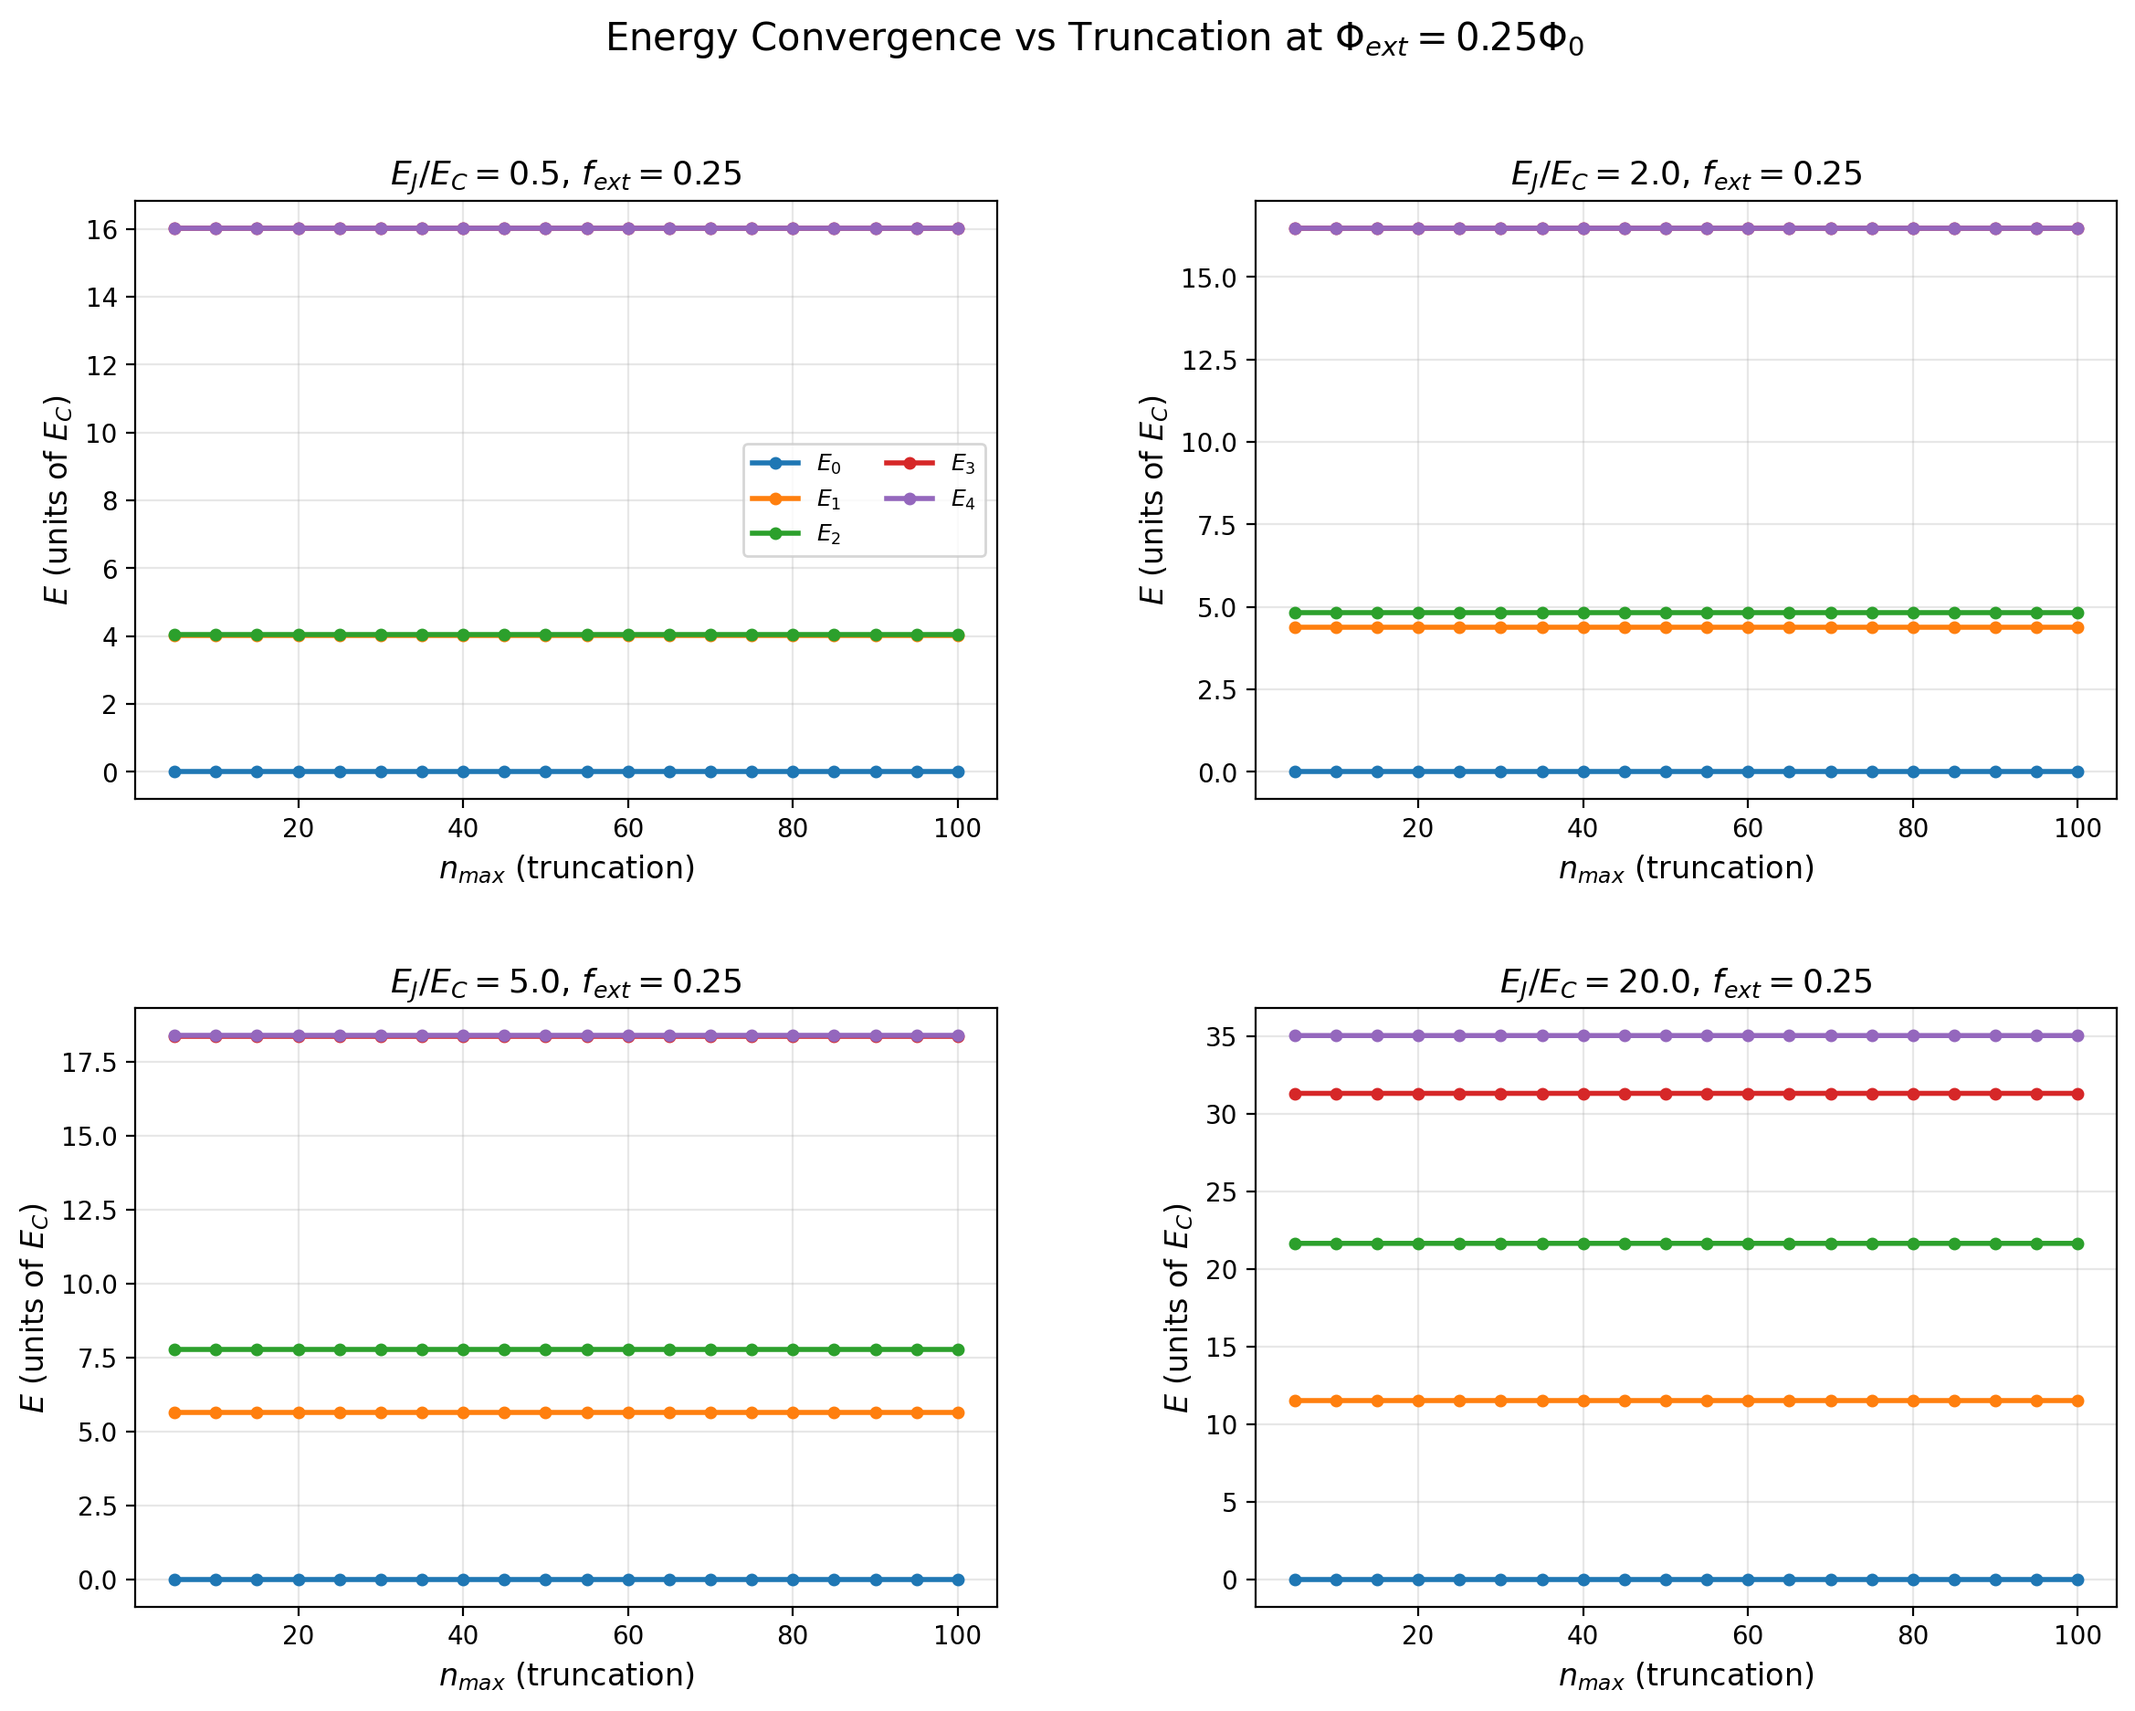
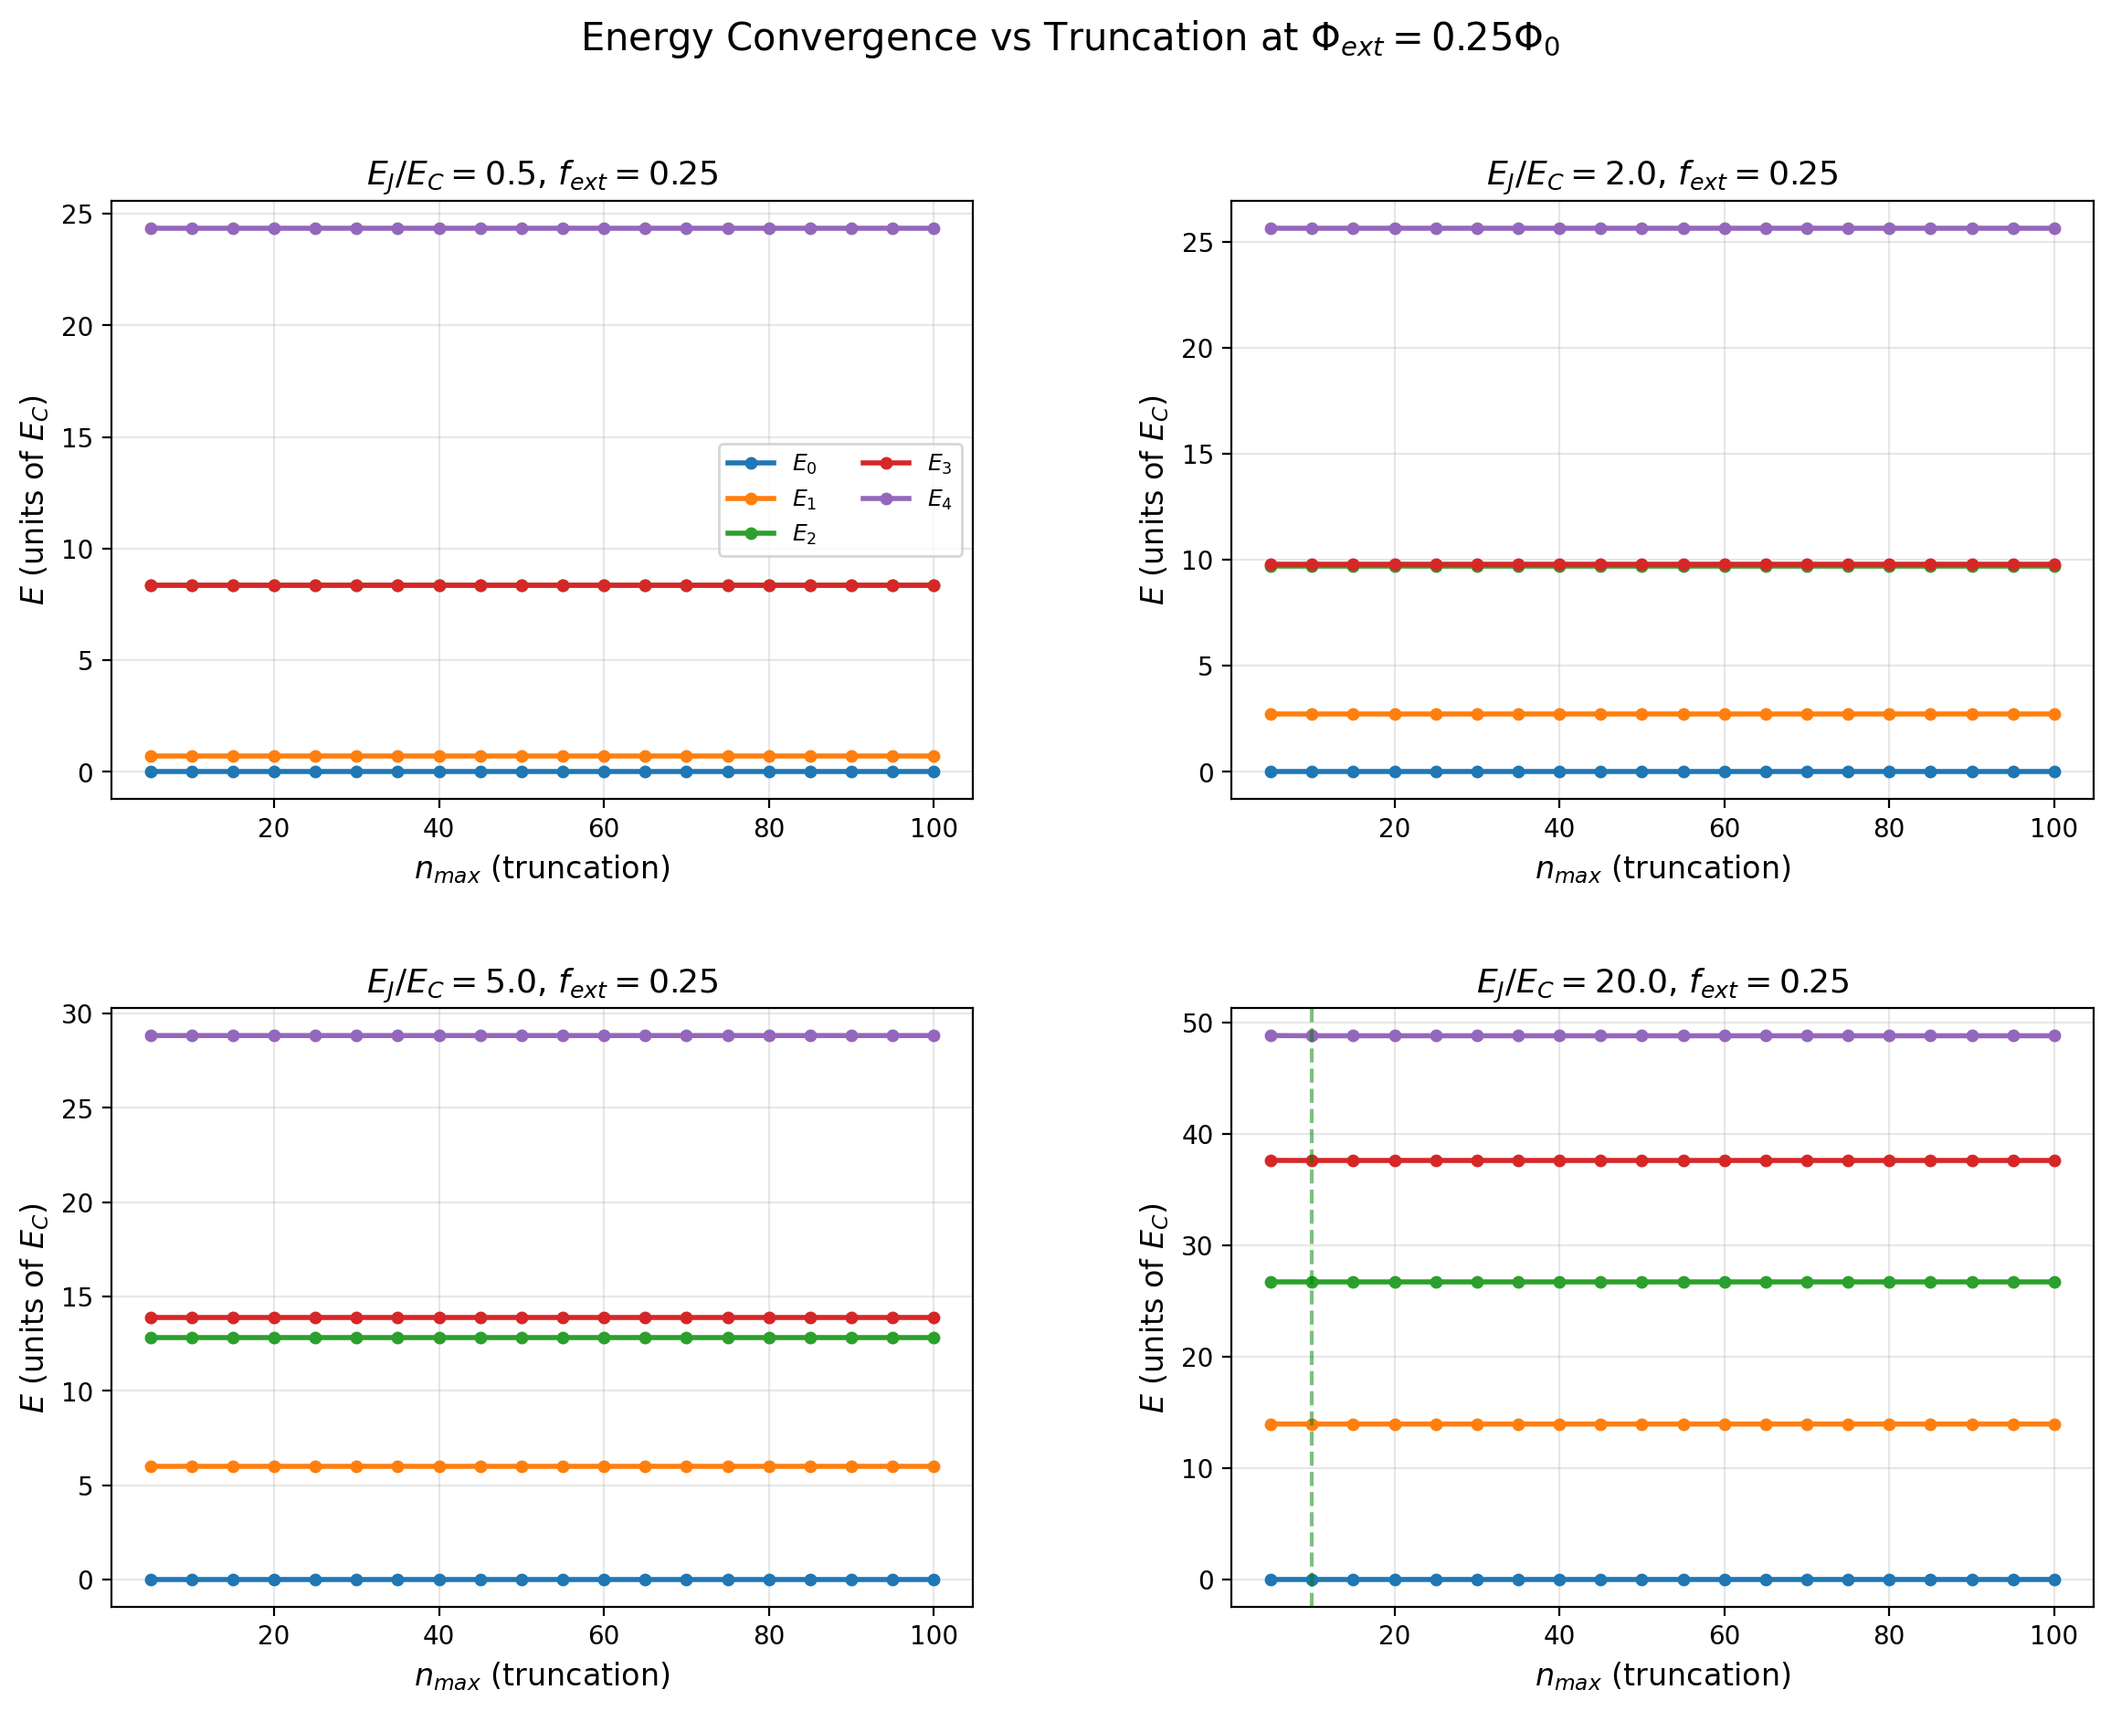
Rework SQUID with gate voltage and fix flux-dependent Hamiltonian
Major changes:
- Added voltage source V_g and gate capacitor C_g to SQUID circuit diagram
- Implemented gate charge n_g = 0.5 in SQUID Hamiltonian
- Fixed critical bug: added flux-dependent effective Josephson energy E_J_eff(φ) = 2*E_J*|cos(φ_ext/2)|
- Updated all spectrum calculations to use n_g = 0.5 for main analysis
- Mathieu comparison now uses n_g = 0 for valid comparison (Mathieu functions only valid at n_g = 0)
- Regenerated all SQUID analysis plots with corrected physics

Physical corrections:
- SQUID now properly exhibits flux modulation of energy spectrum
- Ground state energy varies with external flux as expected
- At φ_ext = 0: maximum E_J_eff (constructive interference)
- At φ_ext = π: minimum E_J_eff (destructive interference)

diff --git a/SQUID.py b/SQUID.py
@@ -38,18 +38,18 @@ except ImportError:
     print("Warning: scipy.special.mathieu functions not available")
 
 
-def build_hamiltonian_phase_basis(phi_ext, EJ_over_EC, n_max=50):
+def build_hamiltonian_phase_basis(phi_ext, EJ_over_EC, n_max=50, n_g=0.5):
     """
-    Build SQUID Hamiltonian in phase momentum basis |n⟩ with truncation.
+    Build SQUID Hamiltonian in phase momentum basis |n⟩ with truncation and gate charge.
 
     In the phase representation, we use momentum eigenstates where:
-        H = 4*E_C*n^2 - E_eff*cos(φ_ext - φ)
+        H = 4*E_C*(n - n_g)^2 - E_eff*cos(φ_ext - φ)
 
     Matrix elements in phase momentum basis |n⟩:
-        ⟨n|H|m⟩ = 4*E_C*n^2 δ_nm - (E_eff/2)[e^(i*φ_ext)δ_{n,m-1} + e^(-i*φ_ext)δ_{n,m+1}]
+        ⟨n|H|m⟩ = 4*E_C*(n - n_g)^2 δ_nm - (E_eff/2)[e^(i*φ_ext)δ_{n,m-1} + e^(-i*φ_ext)δ_{n,m+1}]
 
     This gives a tridiagonal Hermitian matrix:
-        - Diagonal: 4*E_C*n^2 (kinetic energy in phase space)
+        - Diagonal: 4*E_C*(n - n_g)^2 (charging energy with gate charge offset)
         - Off-diagonal: -(E_J/2)*e^(±iφ_ext) (Josephson potential with flux modulation)
 
     The eigenstates are related to Mathieu functions with periodic boundary conditions.
@@ -62,6 +62,8 @@ def build_hamiltonian_phase_basis(phi_ext, EJ_over_EC, n_max=50):
         Ratio E_J/E_C (E_eff = E_J for symmetric SQUID)
     n_max : int
         Truncation: phase momentum from -n_max to n_max
+    n_g : float
+        Gate charge (in units of 2e), default 0.5 for charge degeneracy point
 
     Returns
     -------
@@ -74,21 +76,26 @@ def build_hamiltonian_phase_basis(phi_ext, EJ_over_EC, n_max=50):
     # Basis states: |n⟩ with n ∈ [-n_max, ..., 0, ..., n_max]
     n_values = np.arange(-n_max, n_max + 1)
 
-    for i, n in enumerate(n_values):
-        # Diagonal: kinetic energy 4*E_C*n^2
-        H[i, i] = 4.0 * n**2
+    # For a DC SQUID with two junctions, the effective Josephson energy is flux-dependent:
+    # E_J_eff(φ_ext) = 2*E_J*|cos(φ_ext/2)|
+    # where EJ_over_EC here represents E_J/E_C per junction
+    EJ_eff = 2.0 * EJ_over_EC * np.abs(np.cos(phi_ext / 2.0))
 
-        # Off-diagonal: Josephson coupling -E_J*cos(φ_ext - φ)
-        # In momentum basis: -E_J/2 * [e^(i*φ_ext)|n-1⟩ + e^(-i*φ_ext)|n+1⟩]
+    for i, n in enumerate(n_values):
+        # Diagonal: charging energy 4*E_C*(n - n_g)^2
+        H[i, i] = 4.0 * (n - n_g)**2
+
+        # Off-diagonal: Josephson coupling with flux-modulated amplitude
+        # -E_J_eff*cos(φ) → -E_J_eff/2 * [|n-1⟩ + |n+1⟩] in momentum basis
         if i > 0:  # n-1 exists
-            H[i, i-1] = -EJ_over_EC / 2.0 * np.exp(1j * phi_ext)
+            H[i, i-1] = -EJ_eff / 2.0
         if i < dim - 1:  # n+1 exists
-            H[i, i+1] = -EJ_over_EC / 2.0 * np.exp(-1j * phi_ext)
+            H[i, i+1] = -EJ_eff / 2.0
 
     return H
 
 
-def compute_spectrum(phi_ext_array, EJ_over_EC, n_levels=5, n_max=50):
+def compute_spectrum(phi_ext_array, EJ_over_EC, n_levels=5, n_max=50, n_g=0.5):
     """
     Compute energy spectrum as a function of external flux using numerical diagonalization.
 
@@ -102,6 +109,8 @@ def compute_spectrum(phi_ext_array, EJ_over_EC, n_levels=5, n_max=50):
         Number of energy levels to compute
     n_max : int
         Phase momentum truncation (n ∈ [-n_max, n_max])
+    n_g : float
+        Gate charge offset in units of 2e (default: 0.5)
 
     Returns
     -------
@@ -114,7 +123,7 @@ def compute_spectrum(phi_ext_array, EJ_over_EC, n_levels=5, n_max=50):
     energies = np.zeros((len(phi_ext_array), n_levels_actual))
 
     for i, phi_ext in enumerate(phi_ext_array):
-        H = build_hamiltonian_phase_basis(phi_ext, EJ_over_EC, n_max)
+        H = build_hamiltonian_phase_basis(phi_ext, EJ_over_EC, n_max, n_g)
         evals = np.linalg.eigvalsh(H)
         energies[i, :] = evals[:n_levels_actual].real
 
@@ -263,7 +272,7 @@ def analyze_squid(results_dir='Results_SQUID'):
         ax = fig_spectrum.add_subplot(gs[idx])
 
         print(f"  Computing spectrum for E_J/E_C = {EJ_EC}...")
-        energies = compute_spectrum(phi_ext_array, EJ_EC, n_levels, n_max_default)
+        energies = compute_spectrum(phi_ext_array, EJ_EC, n_levels, n_max_default, n_g=0.5)
 
         # Plot first n_levels energy bands
         for level in range(min(n_levels, energies.shape[1])):
@@ -311,7 +320,7 @@ def analyze_squid(results_dir='Results_SQUID'):
     for EJ_EC in [0.5, 5.0, 20.0]:
         fig_ind, ax_ind = plt.subplots(figsize=(10, 7))
 
-        energies = compute_spectrum(phi_ext_array, EJ_EC, n_levels, n_max_default)
+        energies = compute_spectrum(phi_ext_array, EJ_EC, n_levels, n_max_default, n_g=0.5)
 
         for level in range(min(n_levels, energies.shape[1])):
             ax_ind.plot(f_ext_array, energies[:, level],
@@ -457,7 +466,7 @@ def analyze_squid(results_dir='Results_SQUID'):
     for EJ_EC in EJ_EC_transitions:
         fig_trans, ax_trans = plt.subplots(figsize=(10, 7))
 
-        energies = compute_spectrum(phi_ext_array, EJ_EC, 5, n_max_default)
+        energies = compute_spectrum(phi_ext_array, EJ_EC, 5, n_max_default, n_g=0.5)
 
         # Plot E_01, E_12, E_23
         transitions = [
@@ -492,8 +501,11 @@ def analyze_squid(results_dir='Results_SQUID'):
     # ========================================================================
     # 7. Comparison: Numerical vs Mathieu Functions
     # ========================================================================
+    # NOTE: Mathieu functions are only valid for n_g = 0 (or integer n_g)
+    # For this comparison, we use n_g = 0 for both methods
     if MATHIEU_AVAILABLE:
         print("\nComparing numerical diagonalization vs Mathieu function methods...")
+        print("  (Using n_g = 0 for fair comparison)")
 
         EJ_EC_comparison = [0.5, 2.0, 5.0, 20.0]
 
@@ -505,8 +517,8 @@ def analyze_squid(results_dir='Results_SQUID'):
 
             print(f"  Comparing methods for E_J/E_C = {EJ_EC}...")
 
-            # Compute with both methods
-            energies_numerical = compute_spectrum(phi_ext_array, EJ_EC, 5, n_max_default)
+            # Compute with both methods (using n_g = 0 for valid comparison)
+            energies_numerical = compute_spectrum(phi_ext_array, EJ_EC, 5, n_max_default, n_g=0.0)
             energies_mathieu = compute_spectrum_mathieu(phi_ext_array, EJ_EC, 5)
 
             if energies_mathieu is not None:
@@ -557,7 +569,7 @@ def analyze_squid(results_dir='Results_SQUID'):
 
         fig_side, (ax1, ax2) = plt.subplots(1, 2, figsize=(16, 6))
 
-        energies_numerical = compute_spectrum(phi_ext_array, EJ_EC_demo, 5, n_max_default)
+        energies_numerical = compute_spectrum(phi_ext_array, EJ_EC_demo, 5, n_max_default, n_g=0.0)
         energies_mathieu = compute_spectrum_mathieu(phi_ext_array, EJ_EC_demo, 5)
 
         # Left: Numerical

diff --git a/circuit_diagram_squid.py b/circuit_diagram_squid.py
@@ -39,8 +39,13 @@ def draw_squid_circuit(results_dir='Results_SQUID'):
             with schemdraw.Drawing(show=False) as d:
                 d.config(fontsize=12)
 
-                # Top node
-                d += elm.Line().right().length(0)
+                # Voltage source Vg and gate capacitor Cg at the top
+                d += elm.Ground()
+                d += elm.Line().up().length(1)
+                d += elm.SourceV().up().label('$V_g$')
+                d += elm.Capacitor().right().label('$C_g$')
+
+                # Top node (island)
                 d += (top := elm.Dot())
 
                 # Left branch: J1 (with C1 in parallel)
@@ -60,7 +65,7 @@ def draw_squid_circuit(results_dir='Results_SQUID'):
                 d += elm.Line().down().length(0.3)
                 d += (bottom_left := elm.Dot())
 
-                # Right branch: J2 (with Cg in parallel)
+                # Right branch: J2 (with C2 in parallel)
                 d.move_from(top.start)
                 d += elm.Line().right().length(3)
                 d += elm.Line().down().length(0.3)
@@ -68,10 +73,10 @@ def draw_squid_circuit(results_dir='Results_SQUID'):
                 d += (j2 := elm.Josephson().down().label('$E_{J2}$', loc='left'))
                 d += (j2_bottom := elm.Dot())
 
-                # Capacitor Cg in parallel with J2
+                # Capacitor C2 in parallel with J2
                 d.move_from(j2_top.start)
                 d += elm.Line().left().length(0.8)
-                d += elm.Capacitor().down().label('$C_g$', loc='left')
+                d += elm.Capacitor().down().label('$C_2$', loc='left')
                 d += elm.Line().to(j2_bottom.start)
 
                 # Continue down to bottom on right
